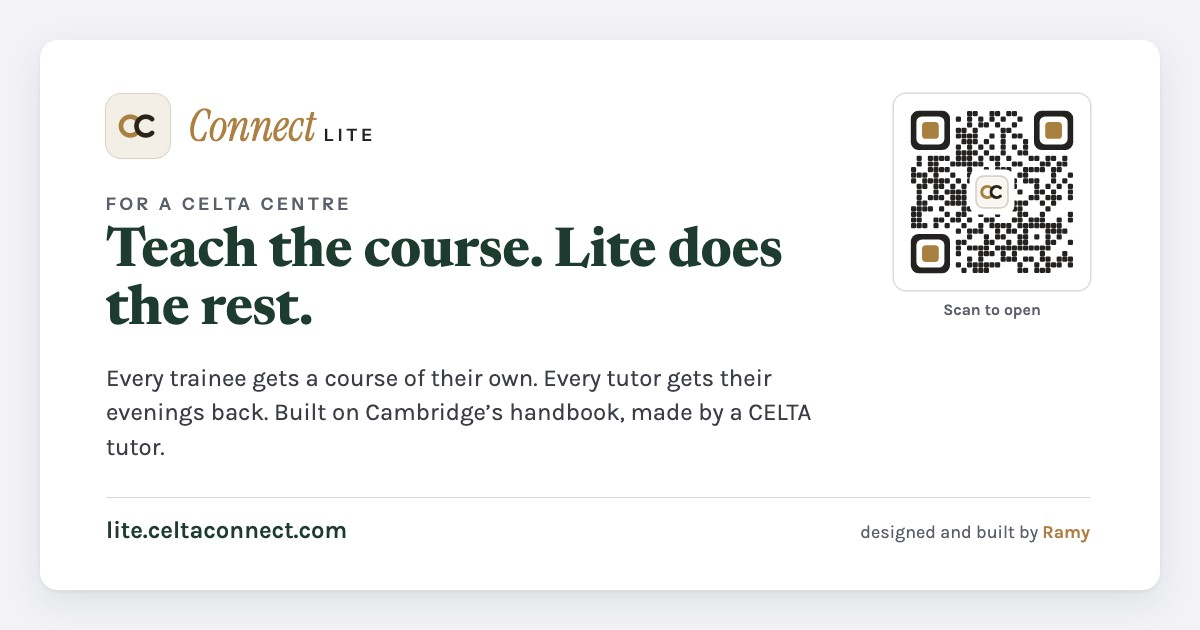
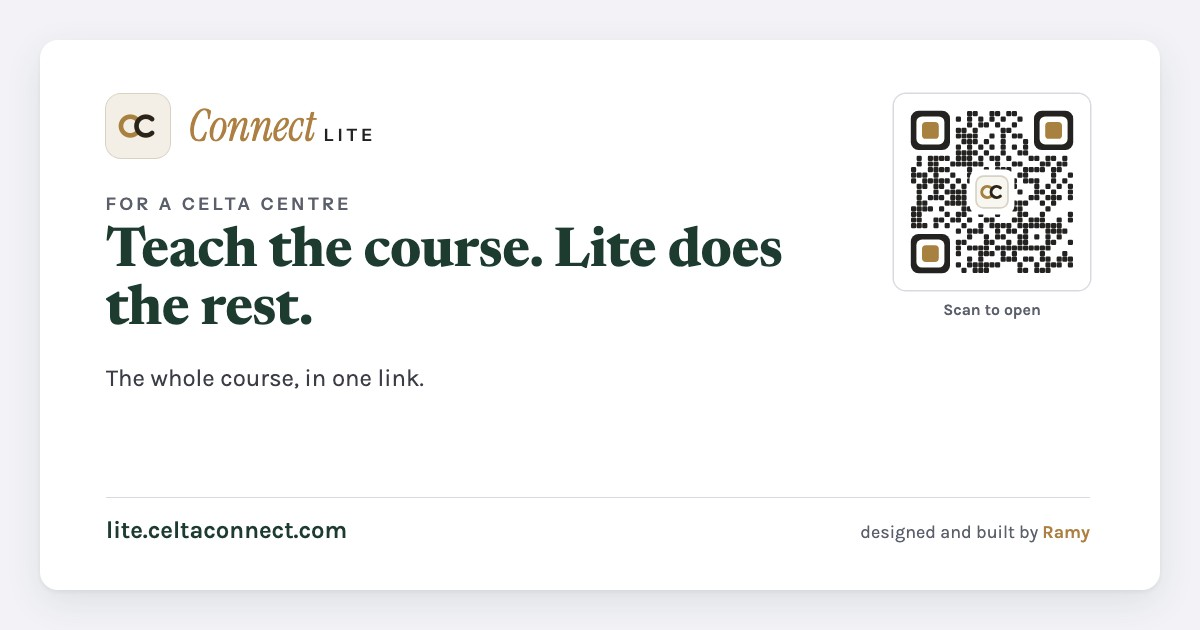
The share card: Teach the course. Lite does the rest., and the hook 'The whole course, in one link.' (24 Oct 2026)

Changed region(s): [[0.0925, 0.573, 0.6783, 0.6937], [0.0925, 0.6937, 0.1542, 0.7238]]

diff --git a/brand/share-card.html b/brand/share-card.html
@@ -37,7 +37,7 @@
     <div class="mark"><img src="icon-512.png" alt=""><div class="word"><span class="c">Connect</span><span class="l">Lite</span></div></div>
     <p class="eyebrow">For a CELTA centre</p>
     <h1>Teach the course. Lite does the rest.</h1>
-    <p class="sub">Every trainee gets a course of their own. Every tutor gets their evenings back. Built on Cambridge’s handbook, made by a CELTA tutor.</p>
+    <p class="sub">The whole course, in one link.</p>
     <div class="qr" id="qr"><span>Scan to open</span></div>
     <div class="foot"><span class="addr">lite.celtaconnect.com</span><span class="credit">designed and built by <b>Ramy</b></span></div>
   </div>
